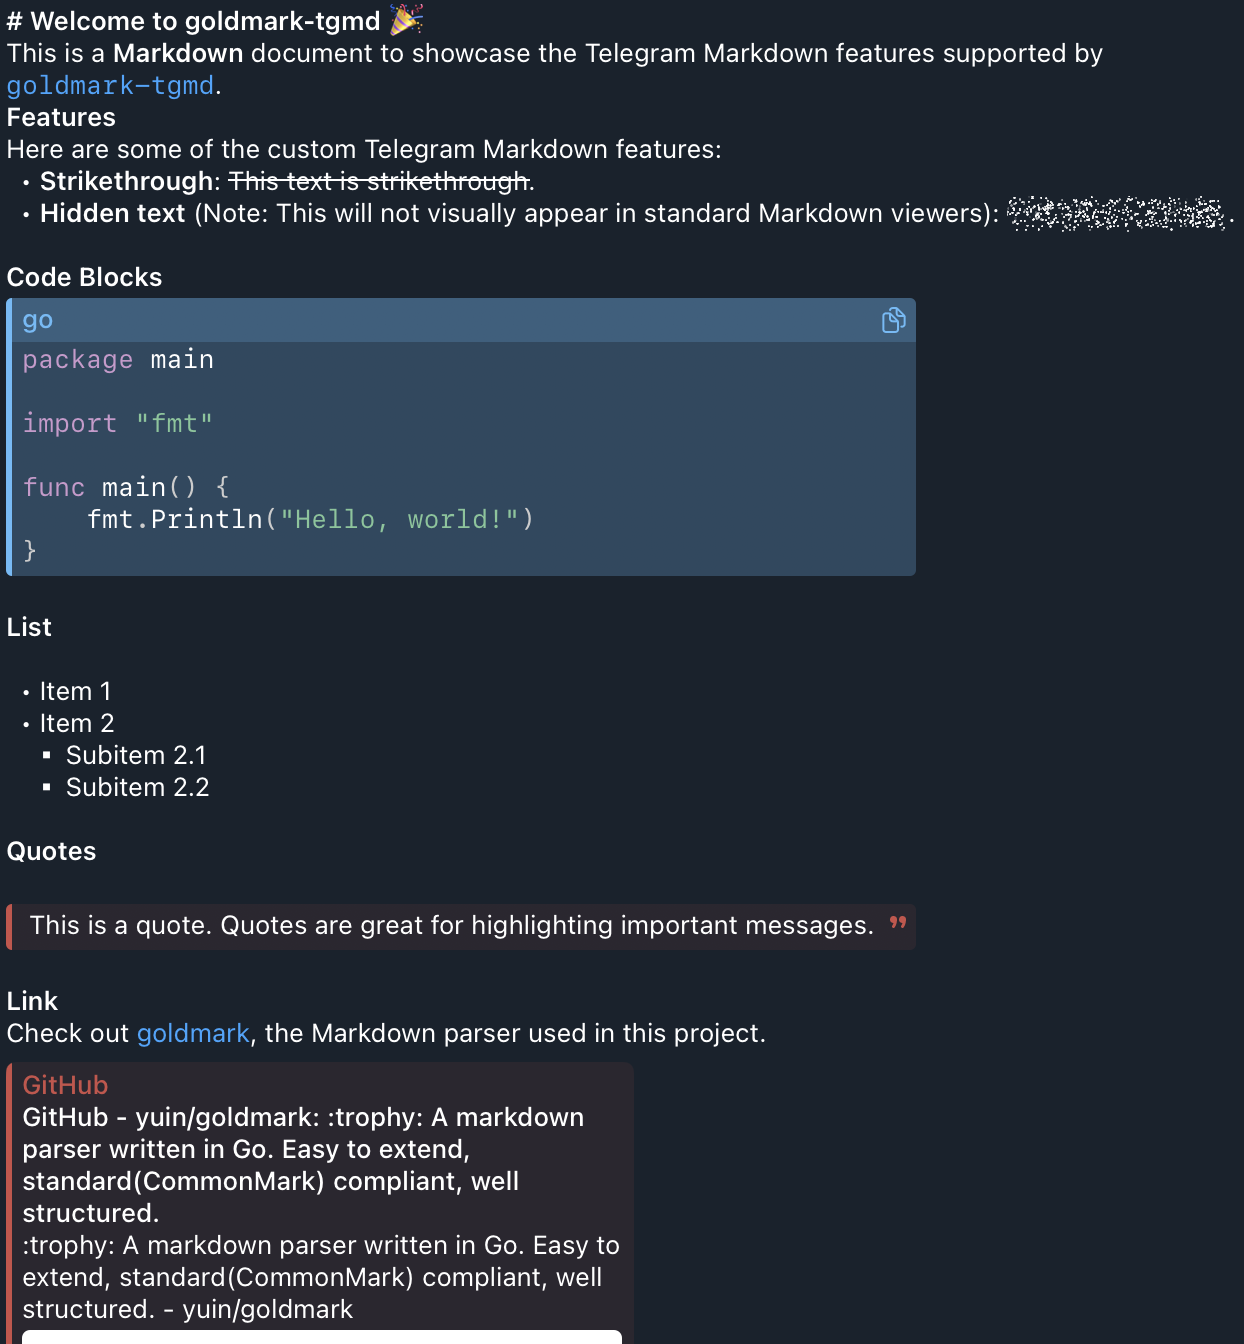
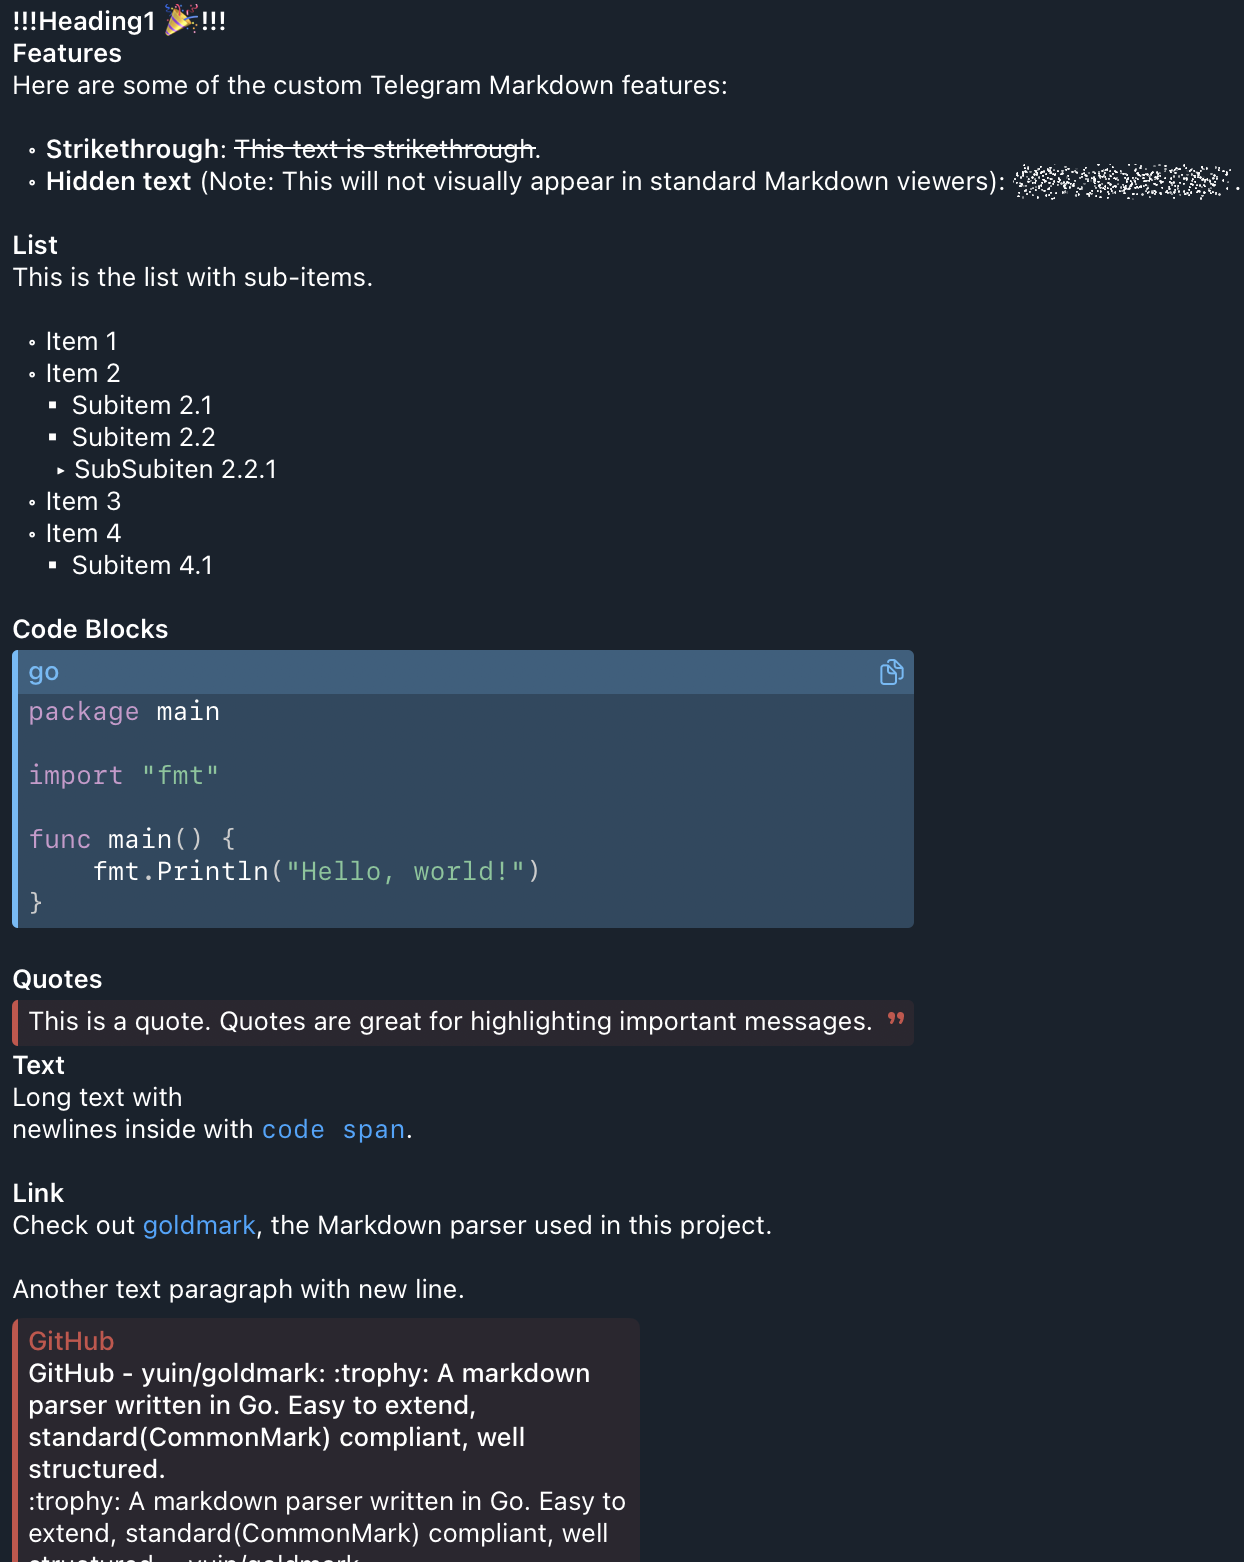
refactor example

diff --git a/tgmd.go b/tgmd.go
@@ -139,6 +139,7 @@ func (r *Renderer) code(w util.BufWriter, source []byte, node ast.Node, entering
 	)
 	nn := node.(*ast.FencedCodeBlock)
 	if entering {
+		writeNewLine(w)
 		writeWrapperArr(w.Write(CodeTg.Bytes()))
 		writeWrapperArr(w.Write(nn.Language(source)))
 	} else {

diff --git a/example/source.md b/example/source.md
@@ -1,5 +1,4 @@
 # Heading1 🎉
-content 1
 
 ## Features
 Here are some of the custom Telegram Markdown features:
@@ -17,11 +16,22 @@ This is the list with sub-items.
 - Item 4
   - Subitem 4.1
 
+## Code Blocks
+```go
+package main
+
+import "fmt"
+
+func main() {
+    fmt.Println("Hello, world!")
+}
+```
+
 ## Quotes
 > This is a quote. Quotes are great for highlighting important messages.
 
 ## Text
-Long text with  newlines inside.
+Long text with  newlines inside with `code span`. 
 
 ## Link
 Check out [goldmark](https://github.com/yuin/goldmark), the Markdown parser used in this project.
